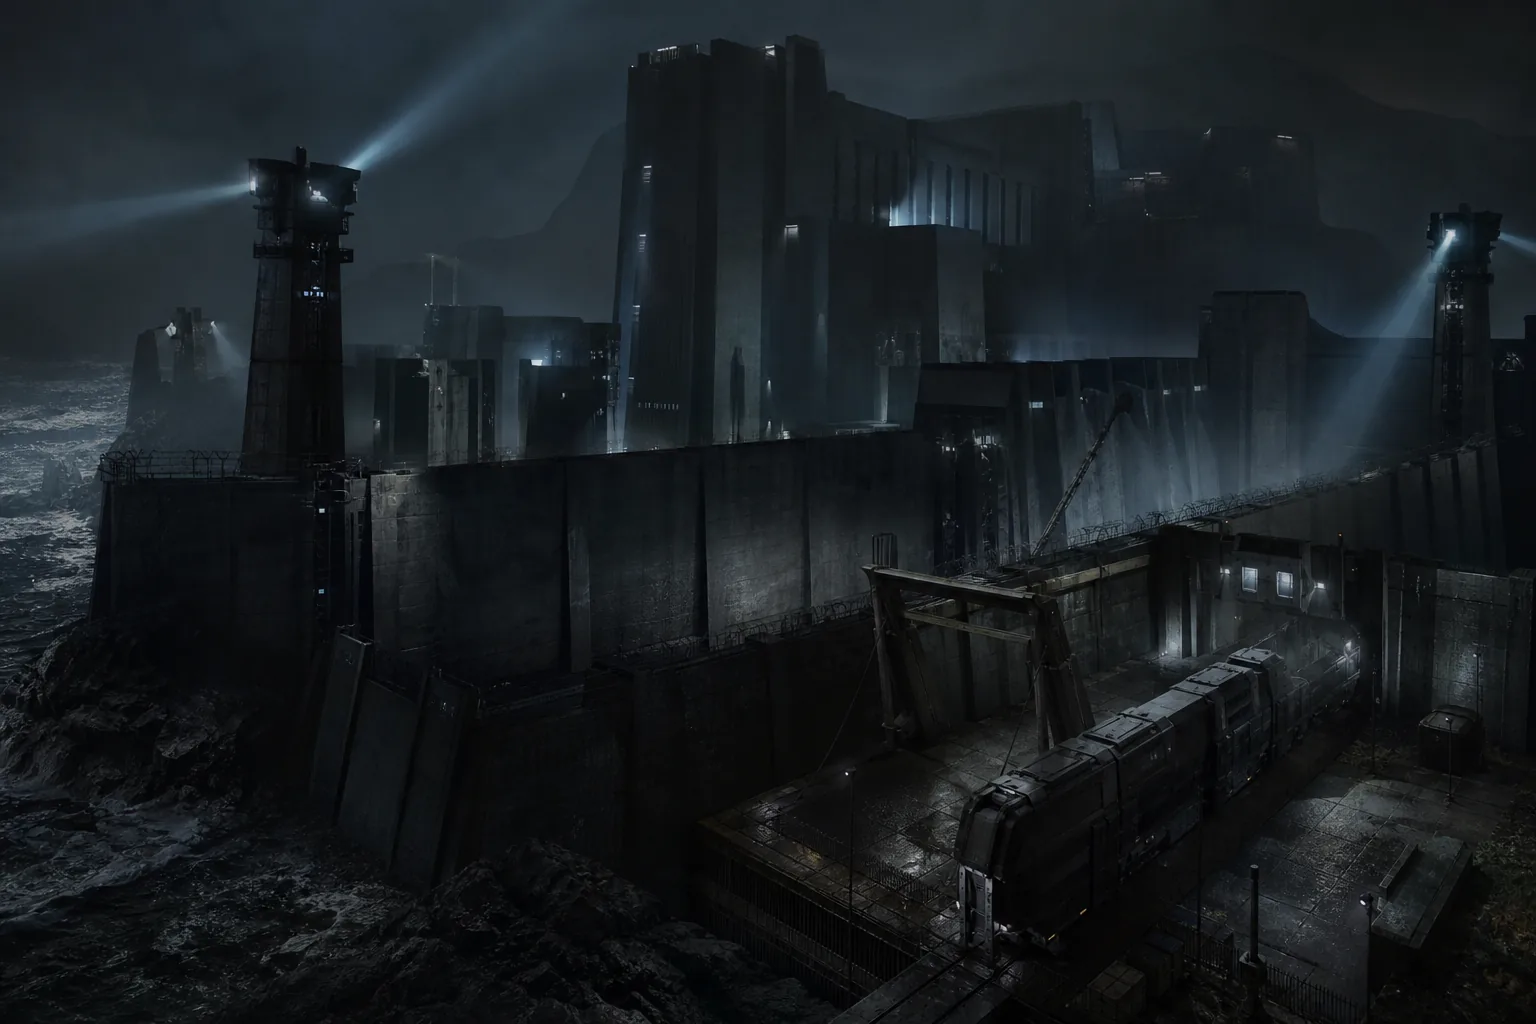
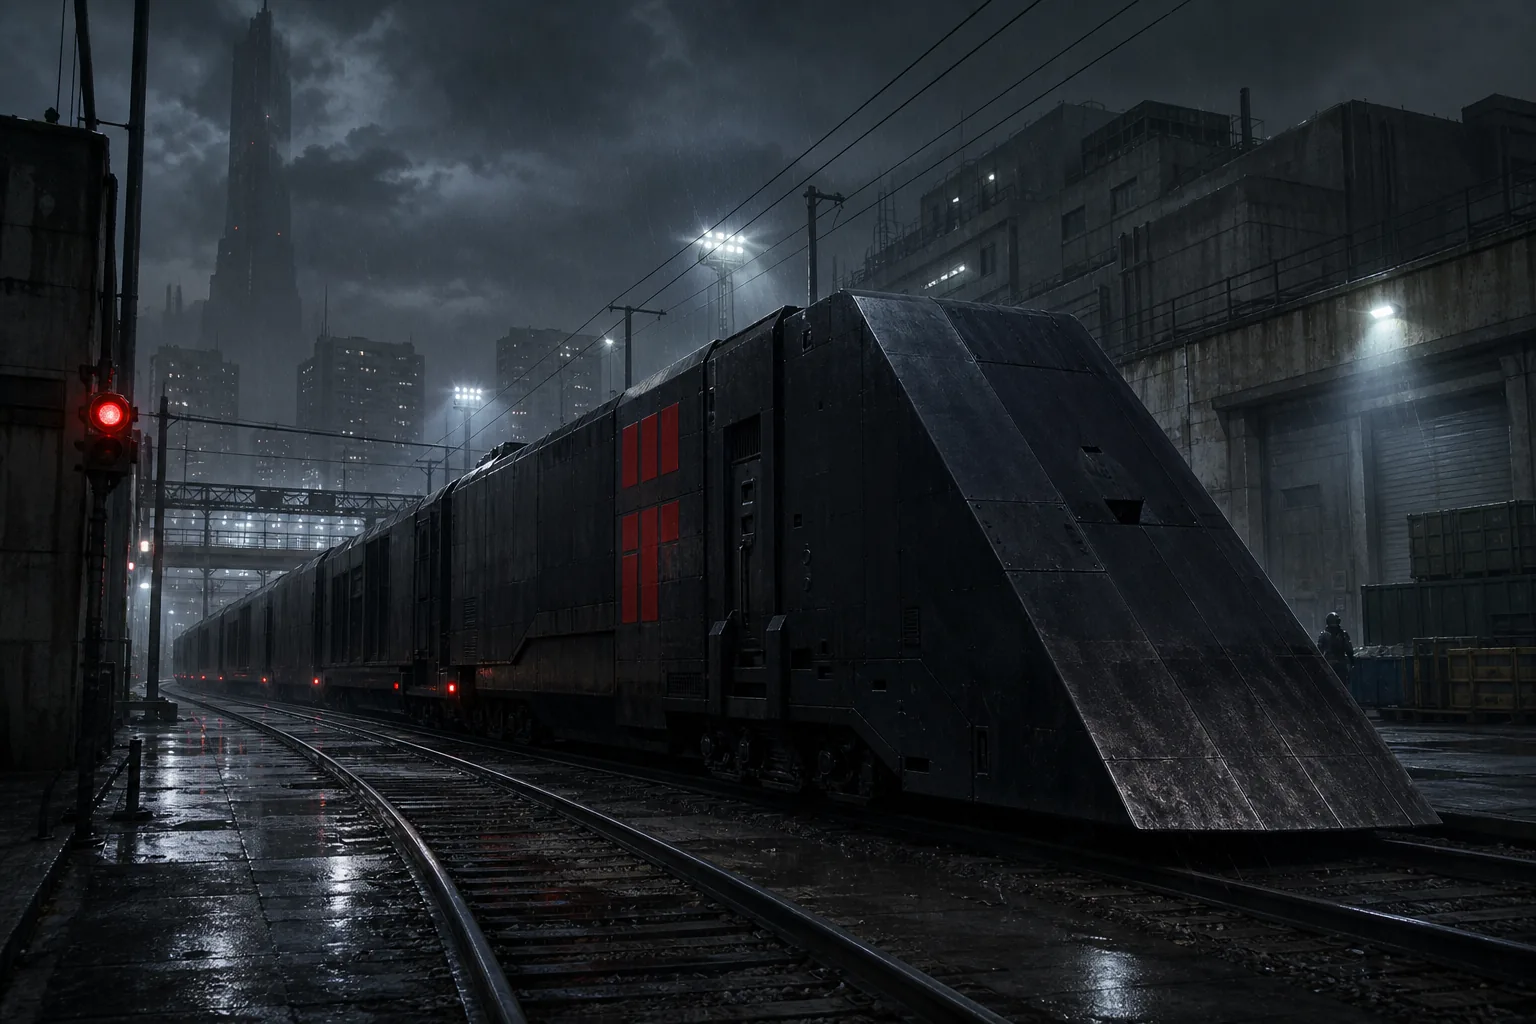
feat: complete lore-faithful visual pack

diff --git a/src/data/visualAssets.ts b/src/data/visualAssets.ts
@@ -87,12 +87,12 @@ export function getDossierVisual(dossierId: DossierVisualId) {
 const crisisVisuals: Record<CrisisType, string> = {
   REBELLION: '/openai-visuals/events/lambda-sabotage.webp',
   XEN: '/openai-visuals/events/xen-breach.webp',
-  CITADEL: '/openai-visuals/events/overwatch-pacification.webp',
+  CITADEL: '/openai-visuals/events/citadel-audit.webp',
   CIVIL: '/openai-visuals/events/civilian-riot.webp',
-  MORAL: '/openai-visuals/events/civilian-riot.webp',
+  MORAL: '/openai-visuals/events/moral-quarantine.webp',
   COMBINE: '/openai-visuals/events/overwatch-pacification.webp',
-  PROPAGANDA: '/openai-visuals/events/civilian-riot.webp',
-  INFRASTRUCTURE: '/openai-visuals/events/lambda-sabotage.webp',
+  PROPAGANDA: '/openai-visuals/events/breencast-propaganda.webp',
+  INFRASTRUCTURE: '/openai-visuals/events/infrastructure-failure.webp',
 };
 
 export function getCrisisVisual(crisisType: CrisisType) {

diff --git a/src/index.css b/src/index.css
@@ -1608,6 +1608,12 @@ button.directive-node:hover { border-color: rgba(165, 220, 255, .48); transform:
   box-shadow: inset 0 0 28px rgba(95, 255, 164, 0.035);
 }
 
+.xen-research-command {
+  background:
+    linear-gradient(90deg, rgba(8, 17, 18, 0.98) 0%, rgba(8, 17, 18, 0.94) 52%, rgba(8, 17, 18, 0.72) 100%),
+    url('/openai-visuals/unlocks/xen-research.webp') center 42% / cover no-repeat;
+}
+
 .xen-research-program-list {
   display: grid;
   gap: 0.75rem;

diff --git a/src/components/UiuxV2CommandDeck.tsx b/src/components/UiuxV2CommandDeck.tsx
@@ -31,7 +31,7 @@ export function UiuxV2CommandDeck({ game, setTab }: { game: GameState; setTab: (
       icon: Map,
       title: 'Surveillance urbaine',
       text: 'Secteurs, statut terrain, infrastructures et priorités CP.',
-      image: '/openai-visuals/city17-sector-grid.svg',
+      image: '/openai-visuals/modules/city17-surveillance.webp',
       tab: 'sectors',
       tone: 'city',
     },
@@ -72,7 +72,7 @@ export function UiuxV2CommandDeck({ game, setTab }: { game: GameState; setTab: (
       icon: FileText,
       title: 'Archives & directives',
       text: 'Rapports, BreenCast, directives Citadel et contrôles supérieurs.',
-      image: '/openai-visuals/breencast-archive-terminal.svg',
+      image: '/openai-visuals/modules/breencast-archive.webp',
       tab: 'reports',
       tone: 'archive',
     },

diff --git a/src/systems/uiuxProgressionSystem.ts b/src/systems/uiuxProgressionSystem.ts
@@ -32,7 +32,7 @@ export const uiuxUnlockCatalog: UiuxUnlockDefinition[] = [
   { id: 'xen_bioscan', title: 'Paquet Bioscan Xen', faction: 'Xen', description: 'Déclassifie les bio-signaux et ouvre les dossiers de biosphère Xen.', cost: { requisition: 120, data: 120, compliance: 10 }, requiresDay: 3, unlocks: 'Quarantaine, recherche et catastrophes Xen.', upkeep: '14 REQ / 16 DATA par jour', image: '/openai-visuals/unlocks/xen-bioscan.webp' },
   { id: 'nova_prospekt_link', title: 'Canal Nova Prospekt', faction: 'Nova Prospekt', description: 'Ouvre le réseau de transfert pénitentiaire externe après liaison OTA.', cost: { requisition: 210, data: 100, compliance: 24 }, requiresDay: 4, requires: ['ota_command'], unlocks: 'Terminal Nova Prospekt et dossiers de détention.', upkeep: '14 REQ / 14 DATA par jour', image: '/openai-visuals/unlocks/nova-channel.webp' },
   { id: 'advisor_channel', title: 'Canal direct Advisor', faction: 'Citadel', description: 'Autorise une inspection Advisor, au prix d’une surveillance administrative accrue.', cost: { requisition: 130, data: 80, compliance: 32 }, requiresDay: 5, unlocks: 'Validation Advisor et protocoles supérieurs.', upkeep: '14 REQ / 4 DATA / 4 CONF par jour', image: '/openai-visuals/unlocks/advisor-link.webp' },
-  { id: 'rail_network', title: 'Canal ferroviaire Razor Train', faction: 'Overwatch', description: 'Réactive les priorités logistiques longue distance de la Combine.', cost: { requisition: 150, data: 80, compliance: 16 }, requiresDay: 3, unlocks: 'Bonus durable de production, rations et transferts.', upkeep: '14 REQ / 4 DATA par jour', image: '/openai-visuals/city17-sector-grid.svg' },
+  { id: 'rail_network', title: 'Canal ferroviaire Razor Train', faction: 'Overwatch', description: 'Réactive les priorités logistiques longue distance de la Combine.', cost: { requisition: 150, data: 80, compliance: 16 }, requiresDay: 3, unlocks: 'Bonus durable de production, rations et transferts.', upkeep: '14 REQ / 4 DATA par jour', image: '/openai-visuals/unlocks/razor-train.webp' },
   { id: 'ravenholm_blacklist', title: 'Dossier interdit Ravenholm', faction: 'Civil Authority', description: 'Archive narrative révélée par les signaux de quarantaine. Elle ne peut pas être achetée.', cost: { requisition: 0, data: 0, compliance: 0 }, requiresDay: 7, requires: ['xen_bioscan'], unlocks: 'Archive Ravenholm et doctrine de non-intervention.', upkeep: 'Aucun entretien', image: '/openai-visuals/events/xen-breach.webp', narrative: true },
   { id: 'synth_requisition', title: 'Réquisition Synth lourde', faction: 'Overwatch', description: 'Autorise Hunter et Strider pour les phases de guerre ouverte.', cost: { requisition: 360, data: 180, compliance: 42 }, requiresDay: 8, requires: ['ota_command', 'advisor_channel'], unlocks: 'Hunter, Strider et protocole de rupture.', upkeep: '54 REQ / 4 DATA par jour', image: '/openai-visuals/units/hunter.webp' },
 ];

diff --git a/public/openai-visuals/README.md b/public/openai-visuals/README.md
@@ -4,55 +4,64 @@ Generated with the built-in OpenAI image tool for the UI/UX progression pass.
 
 ## Banners
 
-- `banners/command-deck.png`: Citadel command room, City 17 overlook, dark left-side UI space.
-- `banners/citadel-requisitions.png`: secure Combine logistics and authorization office.
+- `banners/command-deck.webp`: Citadel command room, City 17 overlook, dark left-side UI space.
+- `banners/citadel-requisitions.webp`: secure Combine logistics and authorization office.
+
+## Command modules
+
+- `modules/city17-surveillance.webp`: Civil Authority sector surveillance table overlooking occupied City 17.
+- `modules/breencast-archive.webp`: layered BreenCast archive terminal inside a retrofitted civic control room.
 
 ## Authorization visuals
 
-- `unlocks/ota-command.png`: Overwatch Transhuman Arm deployment bay.
-- `unlocks/xen-bioscan.png`: Xen bioscan containment chamber.
-- `unlocks/nova-channel.png`: Nova Prospekt external intake facility.
-- `unlocks/xen-research.png`: shared Xen containment visual for the dependent research tier.
-- `unlocks/advisor-link.png`: direct Advisor liaison chamber.
-- `unlocks/razor-train.png`: shared Nova/Razor facility visual for the dependent logistics tier.
+- `unlocks/ota-command.webp`: Overwatch Transhuman Arm deployment bay.
+- `unlocks/xen-bioscan.webp`: Xen bioscan containment chamber.
+- `unlocks/nova-channel.webp`: Nova Prospekt external intake facility.
+- `unlocks/xen-research.webp`: Combine blacksite extracting Antlion material and storing Xen specimens.
+- `unlocks/advisor-link.webp`: direct Advisor liaison chamber.
+- `unlocks/razor-train.webp`: black wedge-nosed Combine freight train on the human rail network.
 
 ## Administrator portraits
 
-- `administrators/civil-director.png`: formal Civil Authority director.
-- `administrators/field-prefect.png`: experienced field administrator.
-- `administrators/combine-technocrat.png`: Combine-integrated technocrat.
-- `administrators/quarantine-director.png`: quarantine and biosecurity director.
+- `administrators/civil-director.webp`: formal Civil Authority director.
+- `administrators/field-prefect.webp`: experienced field administrator.
+- `administrators/combine-technocrat.webp`: Combine-integrated technocrat.
+- `administrators/quarantine-director.webp`: quarantine and biosecurity director.
 
 ## Unit dossiers
 
-- `units/civil-protection.png`: Civil Protection checkpoint officer.
-- `units/city-scanner.png`: City Scanner surveillance patrol.
-- `units/overwatch-soldier.png`: Overwatch Soldier deployment corridor.
-- `units/hunter.png`: Hunter synth on an exterior Razor corridor.
-- `units/manhack.png`: Manhack patrol inside a residential block.
-- `units/combine-elite.png`: Combine Elite in a secure Citadel passage.
-- `units/strider.png`: Strider patrol on a City 17 avenue.
-- `units/gunship.png`: biomechanical Gunship above an industrial canal.
-- `units/bioquarantine-team.png`: Combine biosecurity team at a Xen containment barrier.
-- `units/advisor.png`: Advisor inspection chamber inside the Citadel.
-- `units/combine-grunt.png`: early-occupation quarantine infantry.
-- `units/combine-ordinal.png`: Ordinal field commander using a tactical projection.
-- `units/combine-suppressor.png`: heavy urban suppression specialist.
-- `units/dropship.png`: biomechanical aerial transport carrying a deployment pod.
+- `units/civil-protection.webp`: Civil Protection checkpoint officer.
+- `units/city-scanner.webp`: City Scanner surveillance patrol.
+- `units/overwatch-soldier.webp`: Overwatch Soldier deployment corridor.
+- `units/hunter.webp`: Hunter synth on an exterior Razor corridor.
+- `units/manhack.webp`: Manhack patrol inside a residential block.
+- `units/combine-elite.webp`: Combine Elite in a secure Citadel passage.
+- `units/strider.webp`: Strider patrol on a City 17 avenue.
+- `units/gunship.webp`: biomechanical Gunship above an industrial canal.
+- `units/bioquarantine-team.webp`: Combine biosecurity team at a Xen containment barrier.
+- `units/advisor.webp`: Advisor inspection chamber inside the Citadel.
+- `units/combine-grunt.webp`: early-occupation quarantine infantry.
+- `units/combine-ordinal.webp`: Ordinal field commander using a tactical projection.
+- `units/combine-suppressor.webp`: heavy urban suppression specialist.
+- `units/dropship.webp`: biomechanical aerial transport carrying a deployment pod.
 
 ## Classified person dossiers
 
-- `dossiers/lambda-courier.png`: Lambda courier inside a canal safehouse.
-- `dossiers/suspected-citizen.png`: suspected anti-citizen under checkpoint surveillance.
-- `dossiers/nova-detainee.png`: Nova Prospekt resistance detainee at intake.
-- `dossiers/vortigaunt-biotic.png`: captive Vortigaunt Biotic assigned to containment work.
+- `dossiers/lambda-courier.webp`: Lambda courier inside a canal safehouse.
+- `dossiers/suspected-citizen.webp`: suspected anti-citizen under checkpoint surveillance.
+- `dossiers/nova-detainee.webp`: Nova Prospekt resistance detainee at intake.
+- `dossiers/vortigaunt-biotic.webp`: captive Vortigaunt Biotic assigned to containment work.
 
 ## Crisis events
 
-- `events/civilian-riot.png`: ration riot at a Civil Protection checkpoint.
-- `events/lambda-sabotage.png`: Lambda sabotage inside an industrial facility.
-- `events/xen-breach.png`: hospital quarantine barrier under Xen pressure.
-- `events/overwatch-pacification.png`: Overwatch escalation on a barricaded avenue.
+- `events/civilian-riot.webp`: ration riot at a Civil Protection checkpoint.
+- `events/lambda-sabotage.webp`: Lambda sabotage inside an industrial facility.
+- `events/xen-breach.webp`: hospital quarantine barrier under Xen pressure.
+- `events/overwatch-pacification.webp`: Overwatch escalation on a barricaded avenue.
+- `events/citadel-audit.webp`: Advisor audit of a human administrator inside the Citadel.
+- `events/moral-quarantine.webp`: civilian quarantine-door dilemma under Xen pressure.
+- `events/breencast-propaganda.webp`: coerced public BreenCast viewing in City 17.
+- `events/infrastructure-failure.webp`: failed Combine relay at a City 17 rail and power interchange.
 
 All prompts requested realistic, oppressive Half-Life 2 Combine production art with no readable generated text, logos, watermarks, Aperture references, or generic spaceship styling. Administrator portraits use the same centered chest-up dossier composition and administrative wall. Unit dossiers use the same landscape tactical-card composition with the subject on the right and dark UI space on the left.
 

diff --git a/RELEASE_NOTES_COAN_DESKTOP.md b/RELEASE_NOTES_COAN_DESKTOP.md
@@ -1,4 +1,4 @@
-# Combine Administrator Simulator — Desktop Release 0.46.0
+# Combine Administrator Simulator — Desktop Release 0.46.1
 
 ## Résumé
 Build privé desktop Tauri de Combine Administrator Simulator avec les modules COAN cumulés.